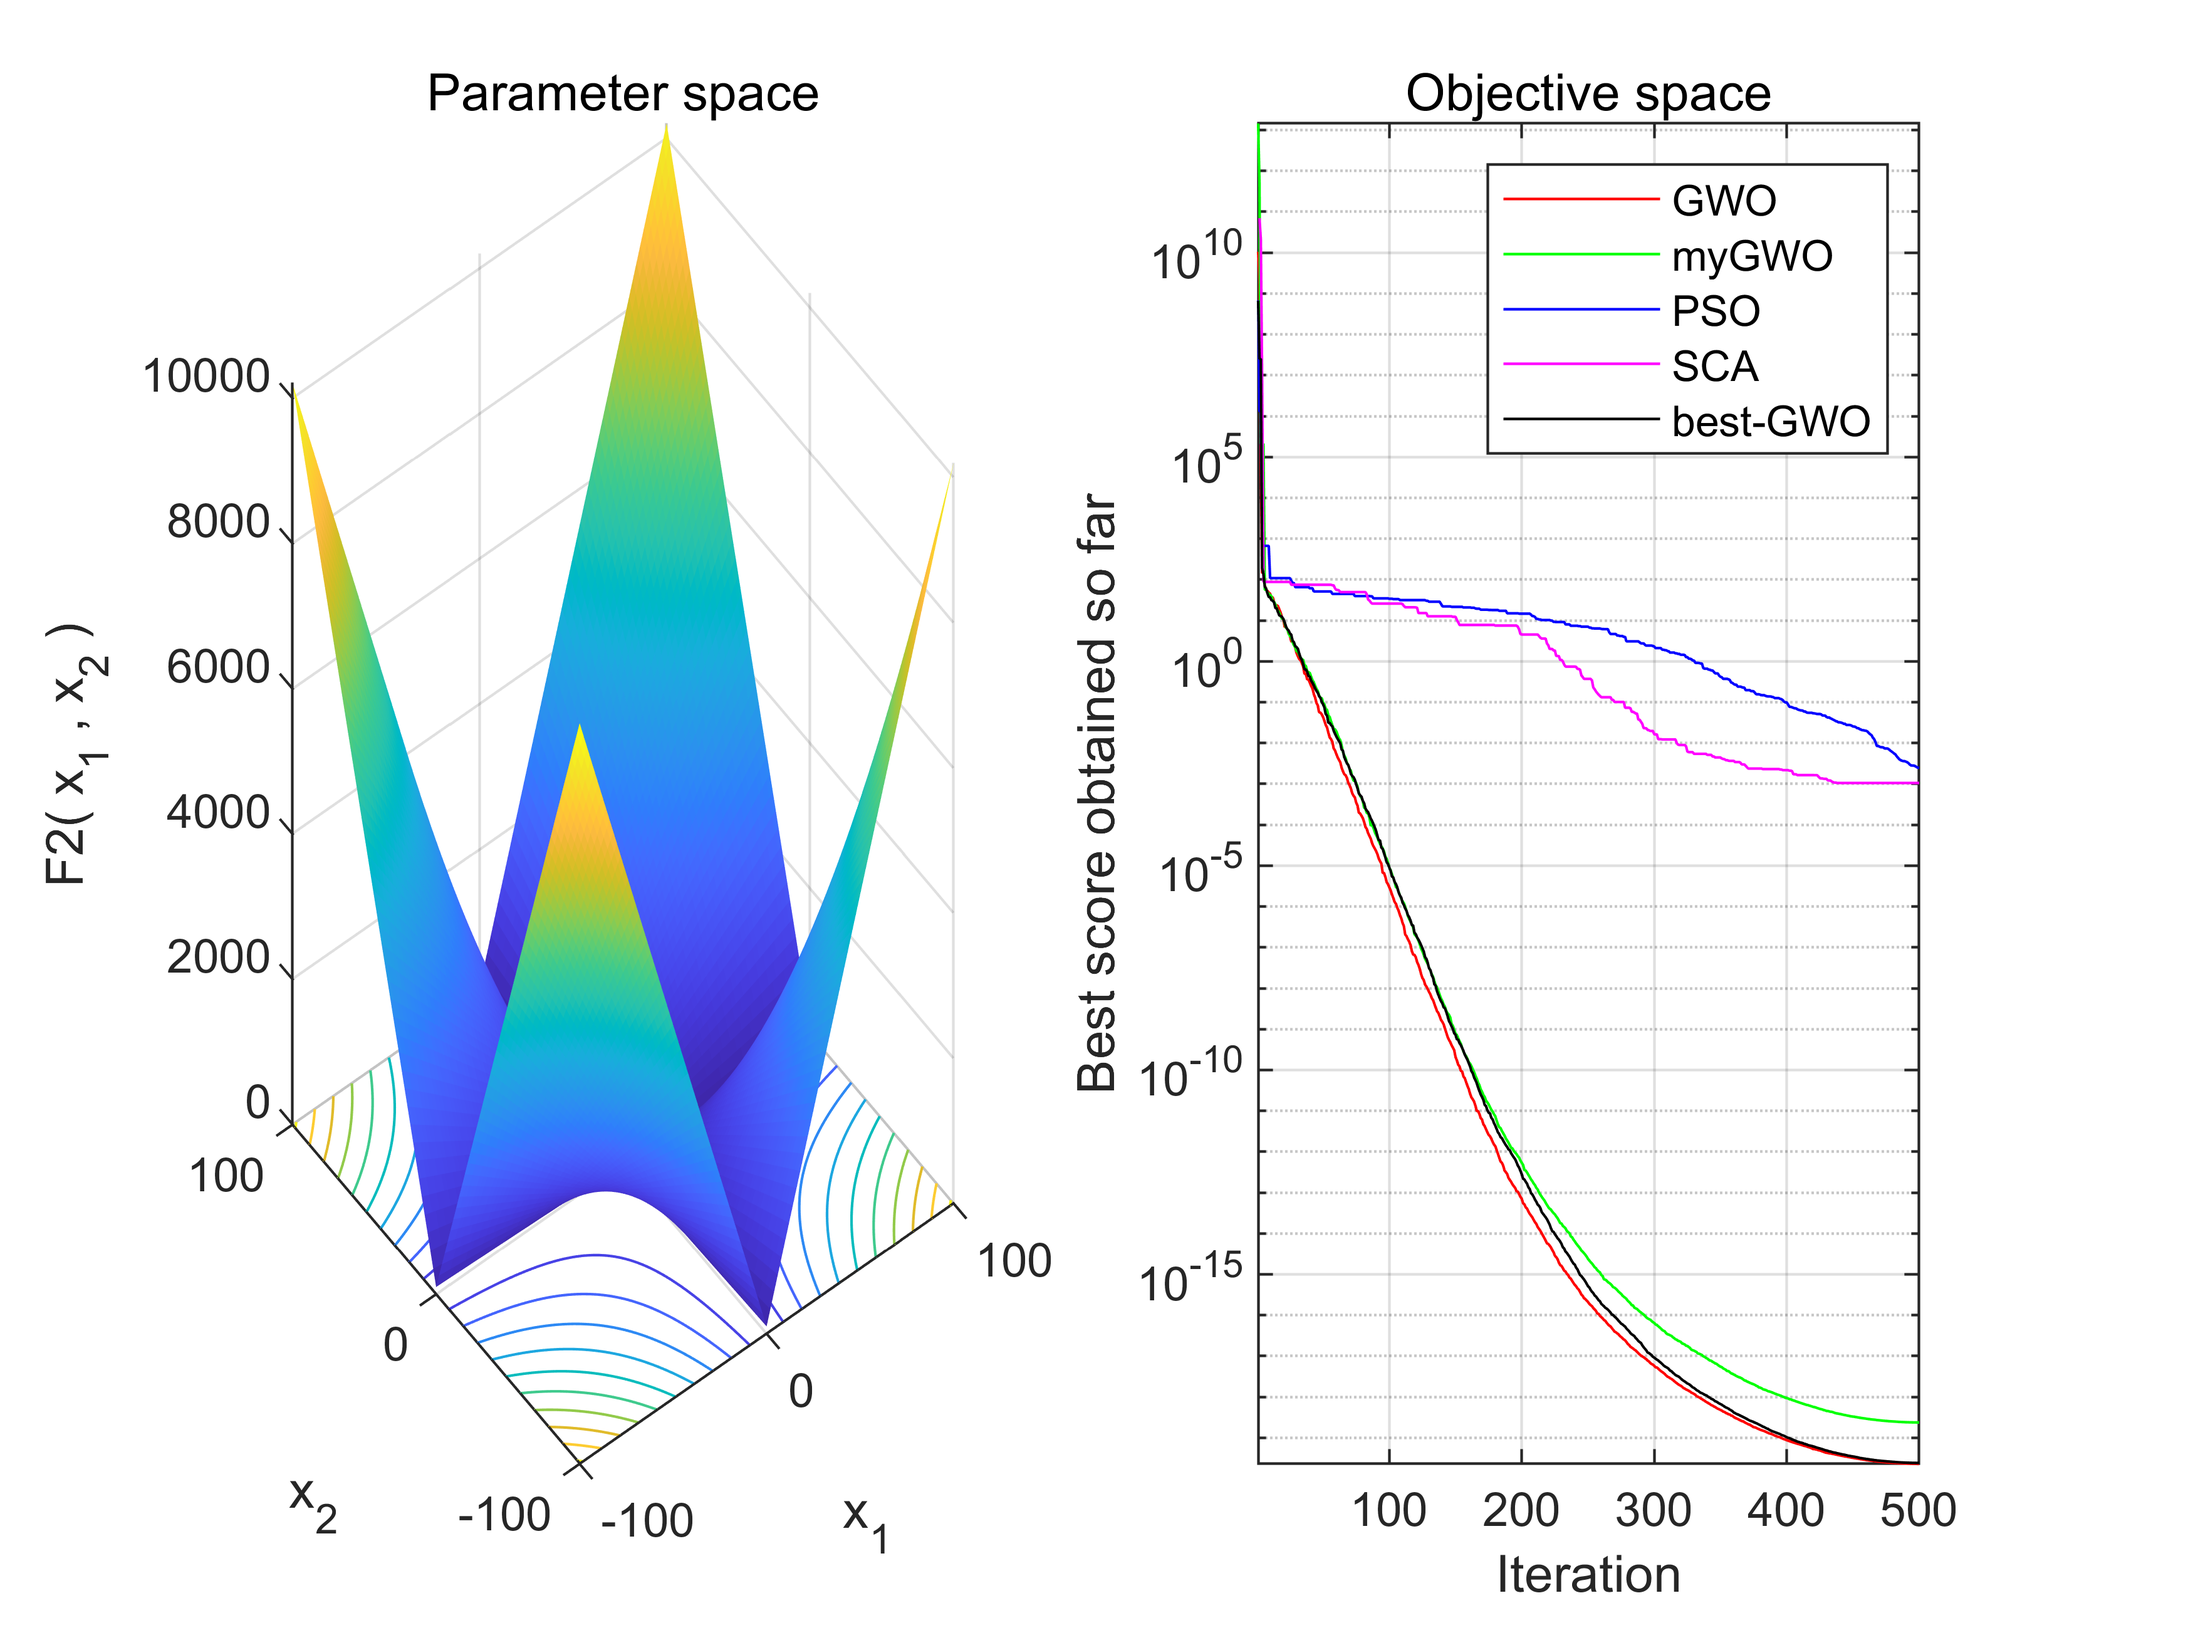
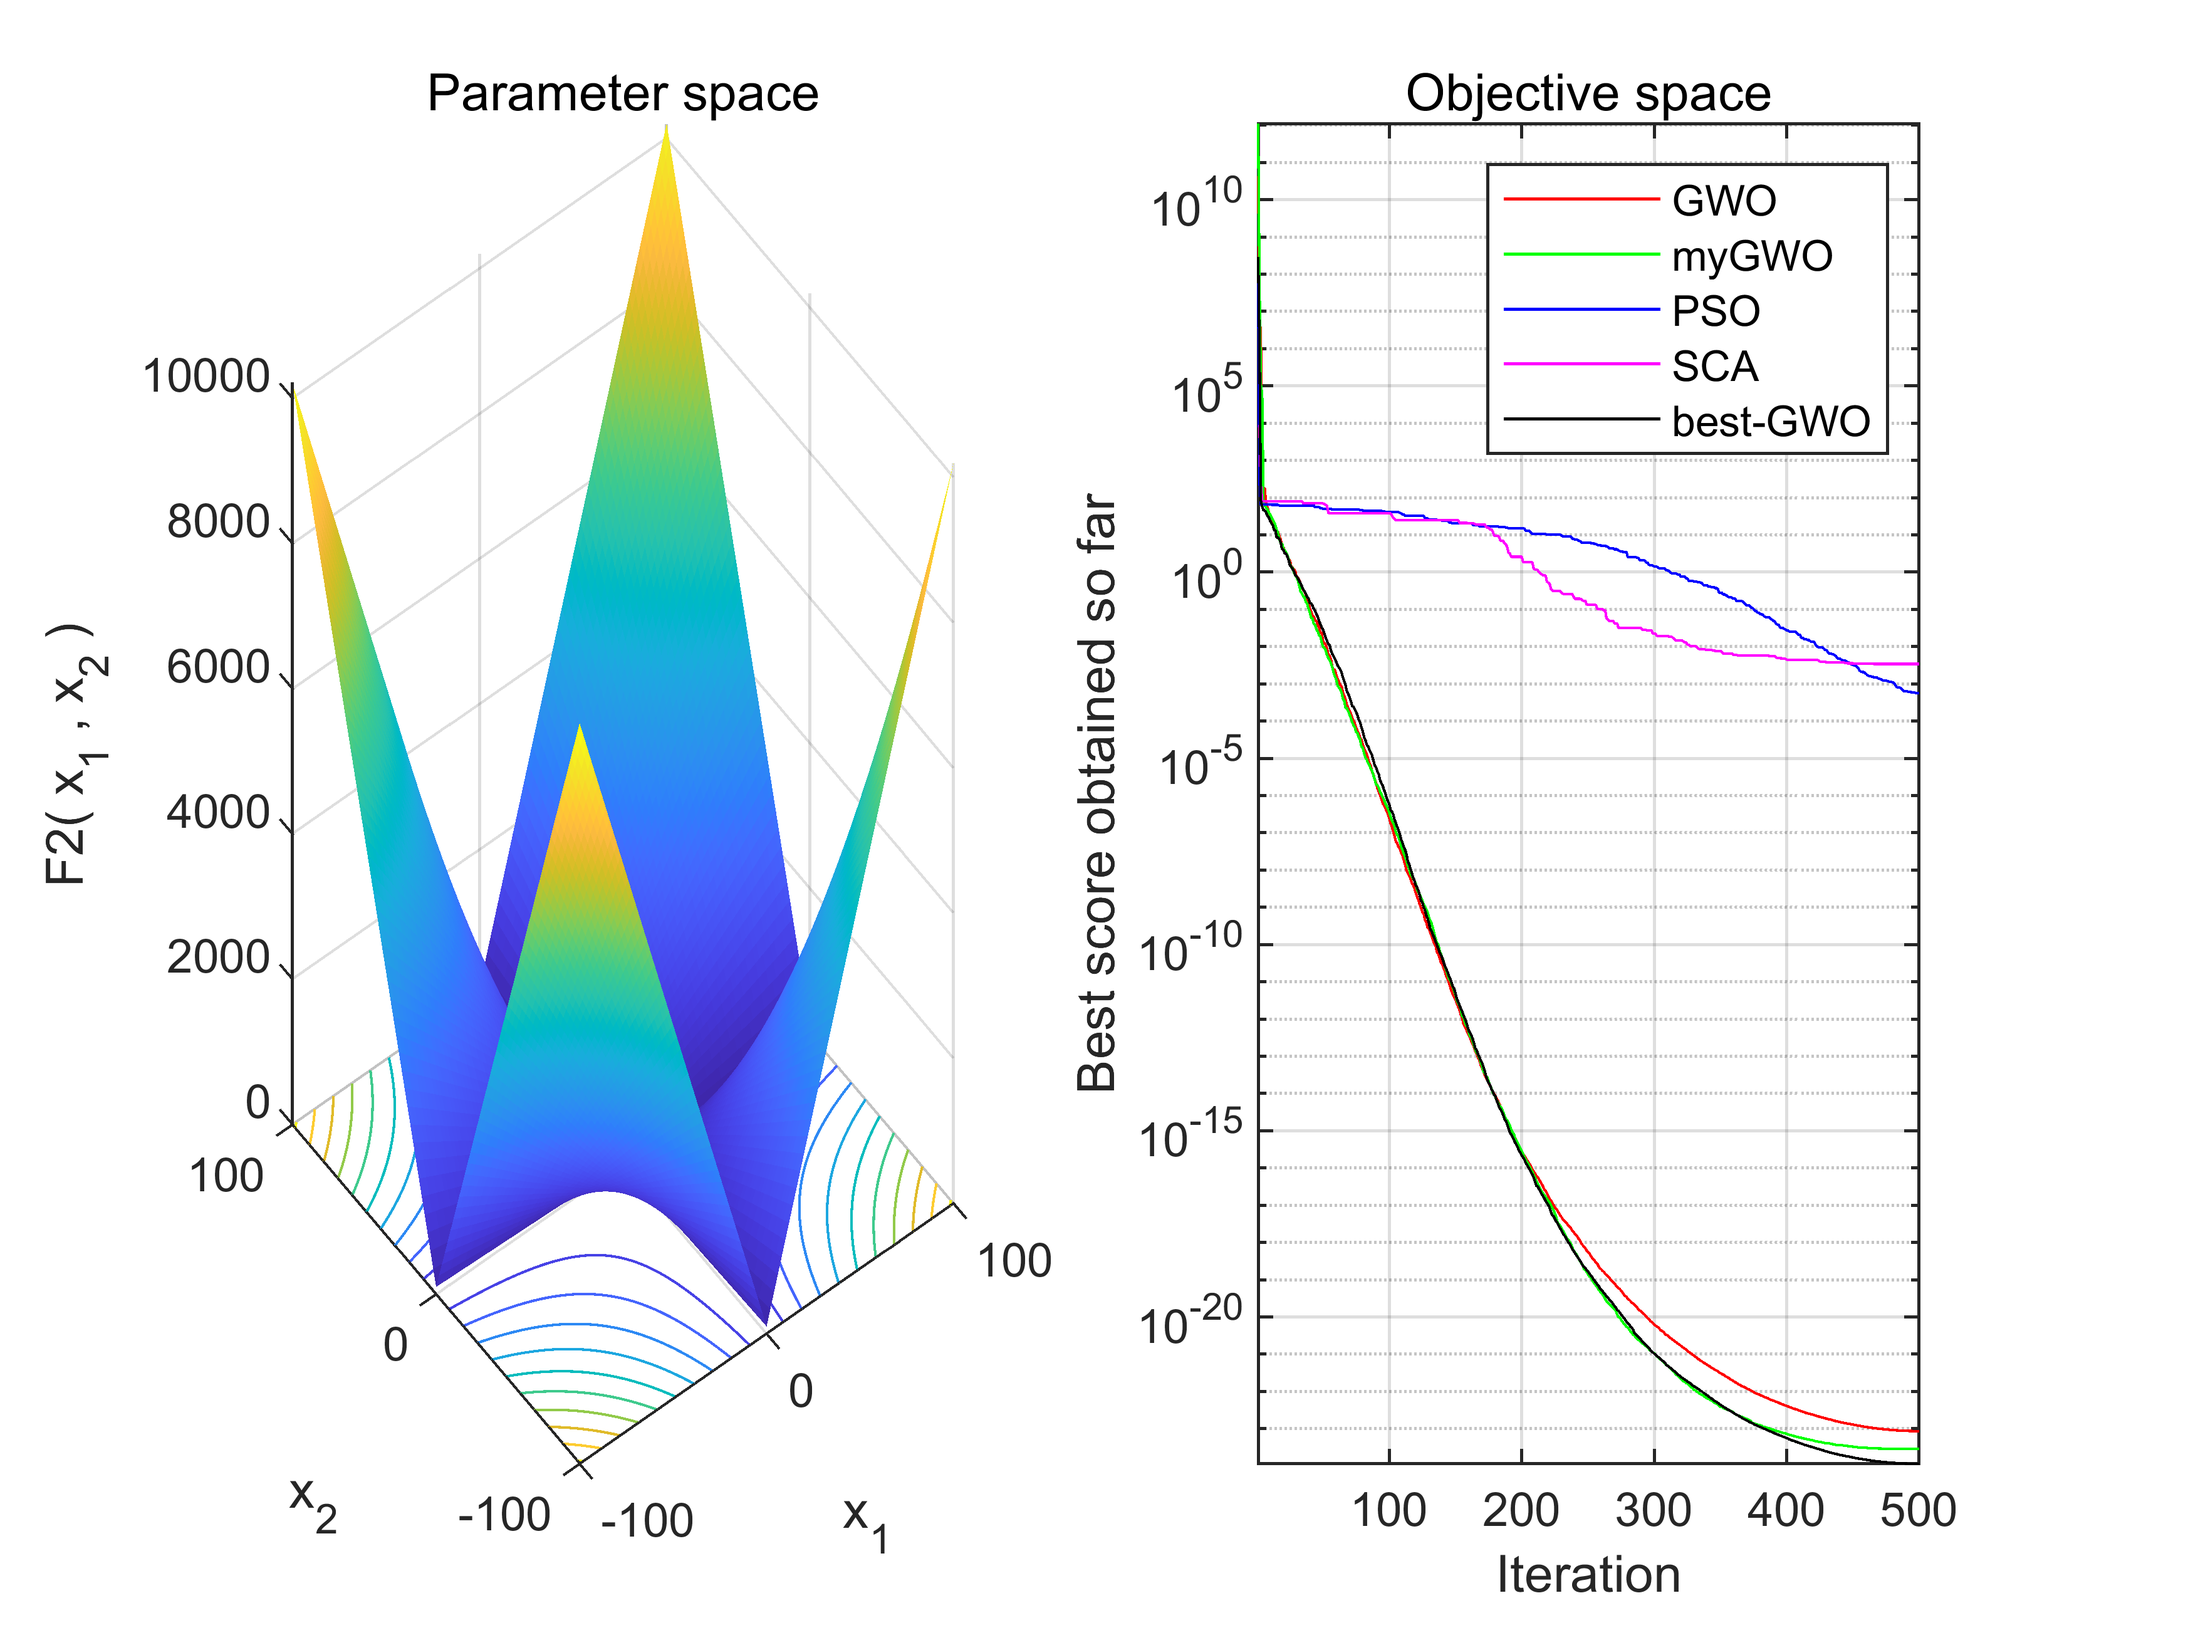
添加Levy filght和brownian，混合生成下一代，效果不佳

diff --git a/GWO_original/IGWO.m b/GWO_original/IGWO.m
@@ -11,6 +11,9 @@ Beta_score=inf; %change this to -inf for maximization problems
 Delta_pos=zeros(1,dim);
 Delta_score=inf; %change this to -inf for maximization problems
 
+Worse_pos=zeros(1,dim);
+Worse_score=-inf;
+
 %Initialize the positions of search agents
 Positions=Logstic_initialization(SearchAgents_no,dim,ub,lb);
 
@@ -55,19 +58,31 @@ while l<Max_iter
             Delta_score=fitness; % Update delta
             Delta_pos=Positions(i,:);
         end
+
+        if fitness>Worse_score
+            Worse_score=fitness;
+            Worse_pos=Positions(i,:);
+        end
     end
     
     
     a=2-l*((2)/Max_iter); % a decreases linearly fron 2 to 0
 
+    range_x = (Max_iter - l)/Max_iter;
+    range_y = (1-range_x)/3;
+
+    normal_sum = round(range_x*SearchAgents_no);
+    levy_sum = round(range_y*SearchAgents_no);
+    brownian_sum = round(range_y*SearchAgents_no);
+    de_sum = SearchAgents_no-normal_sum-levy_sum-brownian_sum;
 
 %     [Alpha_pos, Alpha_score] = update_wolf(l, Max_iter, Positions, dim, fobj, lb, ub, Alpha_score, Alpha_pos);
 %     [Beta_pos, Beta_score] = update_wolf(l, Max_iter, Positions, dim, fobj, lb, ub, Beta_score, Beta_pos);
 %     [Delta_pos, Delta_score] = update_wolf(l, Max_iter, Positions, dim, fobj, lb, ub, Delta_score, Delta_pos);
 
-    
-    % Update the Position of search agents including omegas
-    for i=1:size(Positions,1) % wolves
+
+    % Update the Position of search agents
+    for i=1:normal_sum % wolves
         for j=1:size(Positions,2) % dim
                        
             r1=rand(); % r1 is a random number in [0,1]
@@ -102,8 +117,60 @@ while l<Max_iter
         end
     end
 
- 
+%     Alpha_pos_new = Alpha_pos + levy_flight()*(Worse_pos-Alpha_pos);
+%     Beta_pos_new = Beta_pos + levy_flight()*(Worse_pos-Beta_pos);
+%     Delta_pos_new = Delta_pos + levy_flight()*(Worse_pos-Delta_pos);
+% 
+%     if Alpha_score > fobj(Alpha_pos_new)
+%         Alpha_pos = Alpha_pos_new;
+%         Alpha_score = fobj(Alpha_pos_new);
+%     end
+%     if Beta_score > fobj(Beta_pos_new)
+%         Beta_pos = Beta_pos_new;
+%         Beta_score = fobj(Beta_pos_new);
+%     end
+%     if Delta_score > fobj(Delta_pos_new)
+%         Delta_pos = Delta_pos_new;
+%         Delta_score = fobj(Delta_pos_new);
+%     end
 
+    % use levy flight to create new wolves
+    for i = normal_sum + 1:normal_sum+levy_sum
+        rand_num = randi([1,SearchAgents_no]);
+        Positions(i,:) = Positions(rand_num,:)+0.1*levy_flight()*(Worse_pos-Positions(rand_num,:));
+        for j = 1:size(Positions,2)
+            if Positions(i,j) > ub
+                Positions(i,j) = ub;
+            end
+            if Positions(i,j) < lb
+                Positions(i,j) = lb;
+            end
+        end
+    end
+
+    % use brownian to create new wolves
+    for i = normal_sum+levy_sum + 1:normal_sum+levy_sum+brownian_sum
+        Positions(i,:) = brownian(Positions,lb,ub,Alpha_pos);
+    end
+
+    % use DE+SA to create new wolves
+    for i = normal_sum+levy_sum+brownian_sum+1 : SearchAgents_no
+        rand_num = randi([1,SearchAgents_no]);
+        Positions(i,:) = update_wolf(l,Max_iter,Positions,dim,fobj,lb,ub,fobj(Positions(rand_num,:)),Positions(rand_num,:));
+    end
+
+    if (Alpha_score > fobj(Alpha_pos))
+        Alpha_score = fobj(Alpha_pos);
+        disp('yes')
+    end
+
+    
+    if Beta_score < Alpha_score
+        Alpha_score = Beta_score;
+    end
+    if Delta_score < Alpha_score
+        Alpha_score = Delta_score;
+    end
     l=l+1;
     if (Alpha_score < MIN_SCORE_ALL)
         MIN_SCORE_ALL = Alpha_score;

diff --git a/GWO_original/brownian.m b/GWO_original/brownian.m
@@ -1,0 +1,13 @@
+function new_wolf_pos = brownian(Positions,lb, ub,alpha_pos)
+y = randi([1,size(Positions,1)]);
+z = randi([1,size(Positions,1)]);
+sigma=normrnd(0,1);
+new_wolf_pos = alpha_pos + sigma * (Positions(y,:)-Positions(z,:));
+for j = 1:size(Positions,2)
+    if new_wolf_pos(j) > ub
+        new_wolf_pos(j) = ub;
+    end
+    if new_wolf_pos(j) < lb
+        new_wolf_pos(j) = lb;
+    end
+end

diff --git a/GWO_original/main.m b/GWO_original/main.m
@@ -37,7 +37,7 @@ for kw = 1:22
     if kw == 17
         continue
     end
-    SearchAgents_no=50; % Number of search agents
+    SearchAgents_no=100; % Number of search agents
     Function_name=strcat('F', num2str(kw)); % Name of the test function that can be from F1 to F23 (Table 1,2,3 in the paper)
 
     Max_iteration=500; % Maximum numbef of iterations

diff --git a/GWO_original/levy_flight.m b/GWO_original/levy_flight.m
@@ -1,0 +1,6 @@
+function length = levy_flight()
+beta = 3/2;
+sigma_u = power((gamma(1+beta)*sin(pi*beta/2))/(gamma((1+beta)/2)*beta*pow2((beta-1)/2)),1/beta);
+v = normrnd(0,1);
+u = normrnd(0,power(sigma_u,2));
+length = u/abs(v).^(1/beta);

diff --git a/GWO_original/test_levy.m b/GWO_original/test_levy.m
@@ -1,0 +1,5 @@
+curvy = zeros(1000);
+for i =1:1000
+    curvy(i) = levy_flight();
+end
+plot(curvy)
